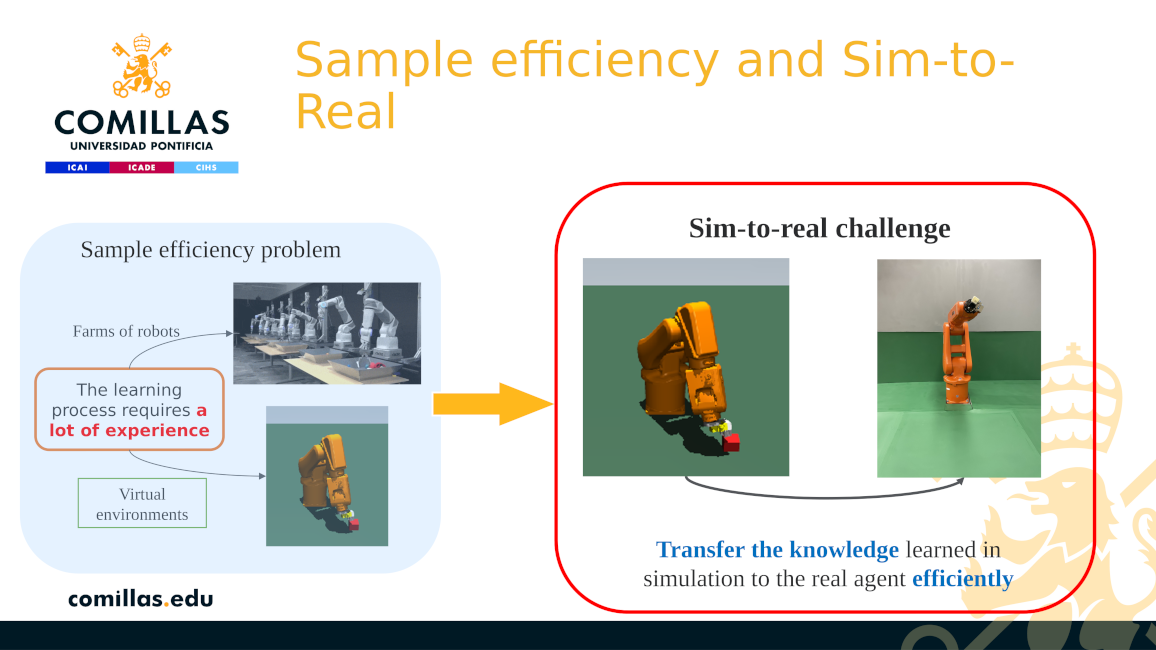
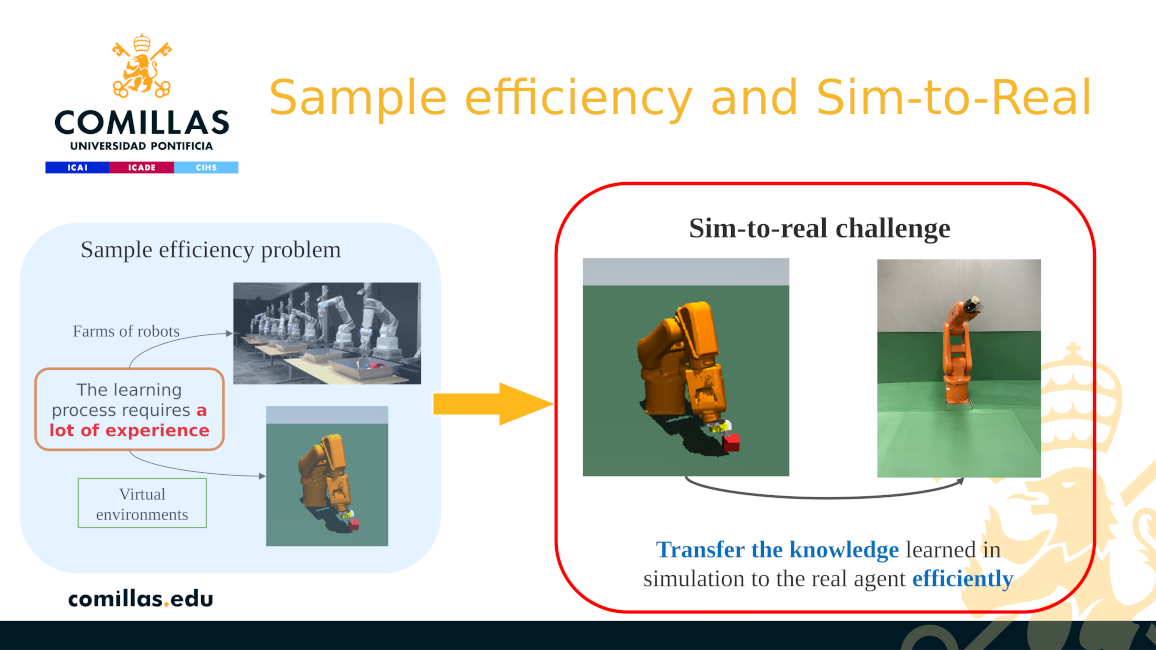
Change image quality

Changed region(s): [[0.218, 0.0615, 0.9654, 0.2154]]

diff --git a/phdThesis.html b/phdThesis.html
@@ -92,10 +92,10 @@ title: Ph.D. thesis
     develop a solution that is scalable and applicable in various industry problems.
 </p>
 <div class="row">
-    <div class="6u 12u$(medium)">
+    <div class="6u 12u$(medium) text-center my-2">
         <div class="image"><img src="images/pic_IRB120Env.JPEG" alt="" height="300" /></div>
     </div>
-    <div class="6u 12u$(medium)">
+    <div class="6u 12u$(medium) text-center my-2">
         <div class="image"><img src="images/pic_UR3eEnv.JPEG" alt="" height="300" /></div>
     </div>
 </div>
